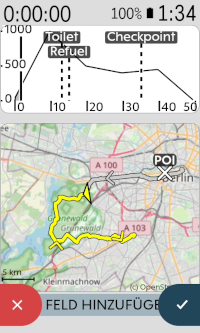
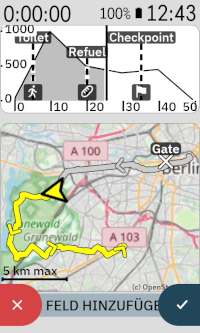
Fix minimap does not download tiles in preview mode (#46)

diff --git a/app/src/main/kotlin/de/timklge/karooroutegraph/datatypes/minimap/MinimapDataType.kt b/app/src/main/kotlin/de/timklge/karooroutegraph/datatypes/minimap/MinimapDataType.kt
@@ -63,6 +63,7 @@ import kotlinx.coroutines.CoroutineScope
 import kotlinx.coroutines.DelicateCoroutinesApi
 import kotlinx.coroutines.Dispatchers
 import kotlinx.coroutines.awaitCancellation
+import kotlinx.coroutines.delay
 import kotlinx.coroutines.flow.combine
 import kotlinx.coroutines.flow.filter
 import kotlinx.coroutines.flow.first
@@ -162,33 +163,37 @@ class MinimapDataType(
             val bearing = TurfMeasurement.bearing(positionAlongRoute, TurfMeasurement.along(polyline, 13010.0, UNIT_METERS))
 
             flow {
-                emit(StreamData(
-                    RouteGraphViewModel(routeDistance = polylineLength, distanceAlongRoute = 13_000f, knownRoute = polyline,
-                        locationAndRemainingRouteDistance = KarooRouteGraphExtension.LocationAndRemainingRouteDistance(positionAlongRoute.latitude(), positionAlongRoute.longitude(), bearing, polylineLength.toDouble() - 3_000),
-                        poiDistances = mapOf(
-                            POI(Symbol.POI("gate", 52.5159305, 13.3774302, name = "Gate")) to listOf(
-                                NearestPoint(null, 0.0f, 0.0f, null)
-                            )
-                        )),
-                    MinimapViewModel(),
-                    UserProfile(
-                        weight = 70.0f,
-                        preferredUnit = UserProfile.PreferredUnit(
-                            distance = UserProfile.PreferredUnit.UnitType.METRIC,
-                            temperature = UserProfile.PreferredUnit.UnitType.METRIC,
-                            elevation = UserProfile.PreferredUnit.UnitType.METRIC,
-                            weight = UserProfile.PreferredUnit.UnitType.METRIC,
+                while(true){
+                    emit(StreamData(
+                        RouteGraphViewModel(routeDistance = polylineLength, distanceAlongRoute = 13_000f, knownRoute = polyline,
+                            locationAndRemainingRouteDistance = KarooRouteGraphExtension.LocationAndRemainingRouteDistance(positionAlongRoute.latitude(), positionAlongRoute.longitude(), bearing, polylineLength.toDouble() - 3_000),
+                            poiDistances = mapOf(
+                                POI(Symbol.POI("gate", 52.5159305, 13.3774302, name = "Gate")) to listOf(
+                                    NearestPoint(null, 0.0f, 0.0f, null)
+                                )
+                            )),
+                        MinimapViewModel(),
+                        UserProfile(
+                            weight = 70.0f,
+                            preferredUnit = UserProfile.PreferredUnit(
+                                distance = UserProfile.PreferredUnit.UnitType.METRIC,
+                                temperature = UserProfile.PreferredUnit.UnitType.METRIC,
+                                elevation = UserProfile.PreferredUnit.UnitType.METRIC,
+                                weight = UserProfile.PreferredUnit.UnitType.METRIC,
+                            ),
+                            maxHr = 190,
+                            restingHr = 60,
+                            heartRateZones = listOf(),
+                            ftp = 200,
+                            powerZones = listOf()
                         ),
-                        maxHr = 190,
-                        restingHr = 60,
-                        heartRateZones = listOf(),
-                        ftp = 200,
-                        powerZones = listOf()
-                    ),
-                    displayViewModel = RouteGraphDisplayViewModel(),
-                    settings = context.streamSettings(karooSystem).first(),
-                    dataPageIsVisible = true
-                ))
+                        displayViewModel = RouteGraphDisplayViewModel(),
+                        settings = context.streamSettings(karooSystem).first(),
+                        dataPageIsVisible = true
+                    ))
+
+                    delay(2_000)
+                }
             }
         } else {
             combine(
